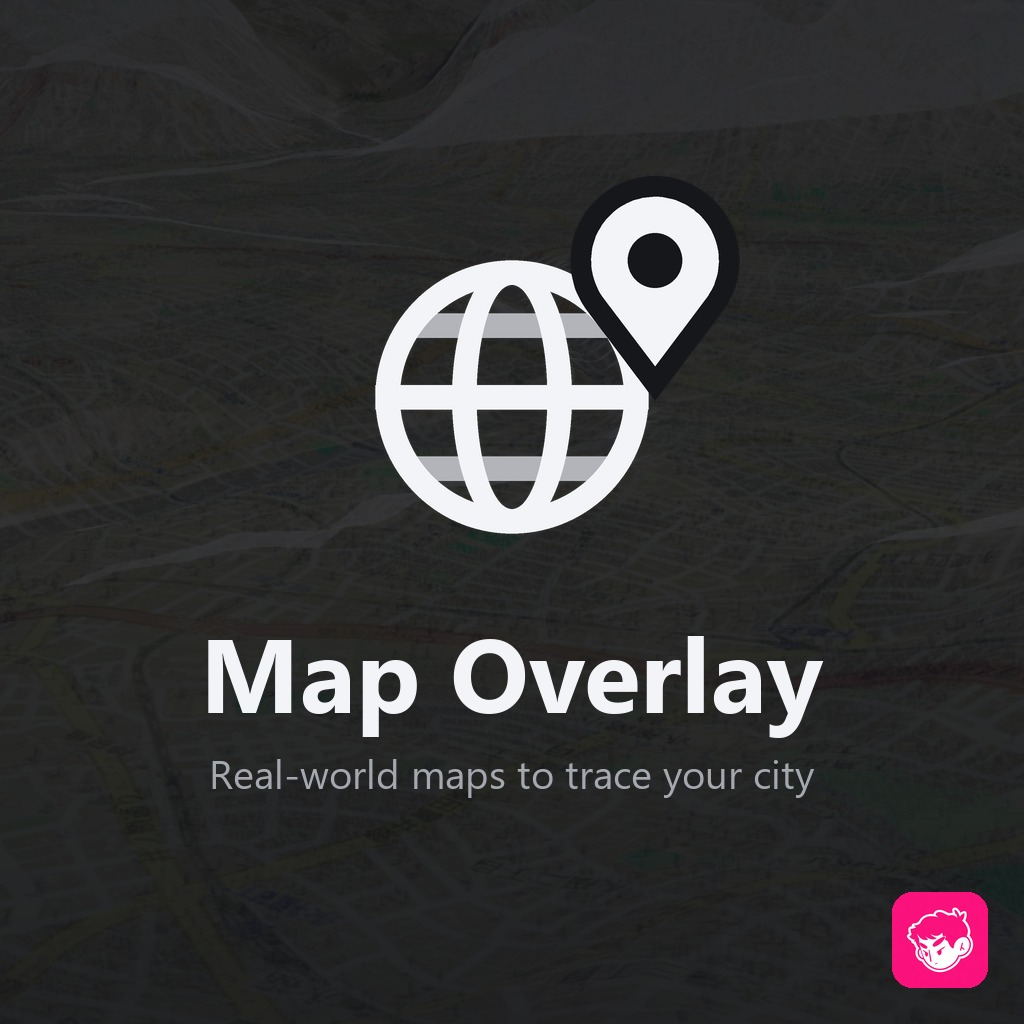
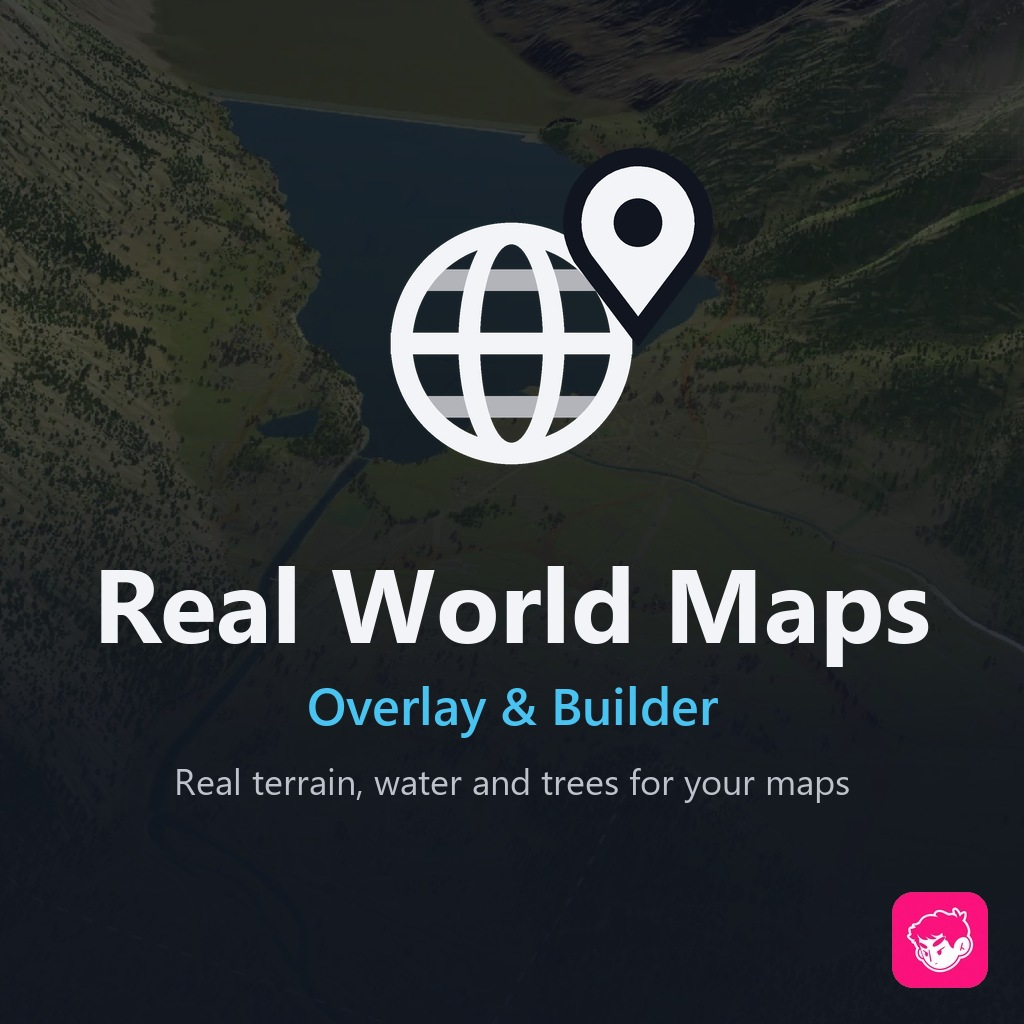
Real World Maps 0.3.0: new name, draggable panel, release assets
Map Overlay becomes Real World Maps. The panel can be dragged by its header.
Updates the publish configuration, thumbnail, gallery and README.

diff --git a/UI/src/kit/index.tsx b/UI/src/kit/index.tsx
@@ -1,6 +1,6 @@
 // A small UI kit for in-game mod panels: one look shared by every mod that copies this
 // folder. Only plain React and the kit's own styles; colours live in _tokens.scss.
-import { CSSProperties, ReactNode, useEffect, useRef, useState } from "react";
+import React, { CSSProperties, ReactNode, useEffect, useRef, useState } from "react";
 import s from "./kit.module.scss";
 
 export const cx = (...names: (string | false | null | undefined)[]) => names.filter(Boolean).join(" ");
@@ -17,36 +17,77 @@ interface ModPanelProps {
   closeLabel?: string;
   style?: CSSProperties;
   bodyMaxHeight?: string;
+  dragKey?: string; // panels with the same key share where they were dragged to
   children: ReactNode;
 }
 
-export const ModPanel = ({ icon, title, subtitle, actions, footer, onClose, style, bodyMaxHeight, children }: ModPanelProps) => (
-  <div className={s.panel} style={style}>
-    <div className={s.header}>
-      <div className={s.badge}>
-        <img className={s.badgeIcon} src={icon} />
+// Where panels were dragged to, kept while they are closed (for this game session).
+const panelOffsets = new Map<string, { x: number; y: number }>();
+const kKeepOnScreen = 44; // px of the panel's top that stay visible at the bottom of the screen
+
+export const ModPanel = ({ icon, title, subtitle, actions, footer, onClose, style, bodyMaxHeight, dragKey, children }: ModPanelProps) => {
+  const key = dragKey ?? title;
+  const [offset, setOffset] = useState(panelOffsets.get(key) ?? { x: 0, y: 0 });
+  const panelRef = useRef<HTMLDivElement>(null);
+  const stopDrag = useRef<(() => void) | null>(null);
+
+  useEffect(() => () => stopDrag.current?.(), []);
+
+  // Dragged by the icon and title; the header's buttons keep working as usual.
+  const startDrag = (e: React.MouseEvent) => {
+    if (e.button !== 0 || !panelRef.current) return;
+    e.preventDefault();
+    const rect = panelRef.current.getBoundingClientRect();
+    const startX = e.clientX, startY = e.clientY, from = offset;
+    const clamp = (v: number, low: number, high: number) => Math.max(low, Math.min(high, v));
+    const move = (ev: MouseEvent) => {
+      const next = {
+        x: from.x + clamp(ev.clientX - startX, -rect.left, window.innerWidth - rect.right),
+        y: from.y + clamp(ev.clientY - startY, -rect.top, window.innerHeight - rect.top - kKeepOnScreen),
+      };
+      panelOffsets.set(key, next);
+      setOffset(next);
+    };
+    const up = () => stopDrag.current?.();
+    stopDrag.current = () => {
+      document.removeEventListener("mousemove", move);
+      document.removeEventListener("mouseup", up);
+      stopDrag.current = null;
+    };
+    document.addEventListener("mousemove", move);
+    document.addEventListener("mouseup", up);
+  };
+
+  return (
+    <div ref={panelRef} className={s.panel} style={{ ...style, transform: `translate(${offset.x}px, ${offset.y}px)` }}>
+      <div className={s.header}>
+        <div className={s.dragHandle} onMouseDown={startDrag}>
+          <div className={s.badge}>
+            <img className={s.badgeIcon} src={icon} />
+          </div>
+          <div className={s.heading}>
+            <div className={s.title}>{title}</div>
+            {subtitle && <div className={s.subtitle}>{subtitle}</div>}
+          </div>
+        </div>
+        <div className={s.headerActions}>
+          {actions}
+          {/* Drawn with CSS: the game's UI font has no ✕ glyph. */}
+          <button className={s.iconButton} onClick={onClose}>
+            <span className={s.closeIcon}>
+              <span className={s.closeBar} />
+              <span className={cx(s.closeBar, s.closeBarCross)} />
+            </span>
+          </button>
+        </div>
       </div>
-      <div className={s.heading}>
-        <div className={s.title}>{title}</div>
-        {subtitle && <div className={s.subtitle}>{subtitle}</div>}
+      <div className={s.body} style={bodyMaxHeight ? { maxHeight: bodyMaxHeight } : undefined}>
+        {children}
       </div>
-      <div className={s.headerActions}>
-        {actions}
-        {/* Drawn with CSS: the game's UI font has no ✕ glyph. */}
-        <button className={s.iconButton} onClick={onClose}>
-          <span className={s.closeIcon}>
-            <span className={s.closeBar} />
-            <span className={cx(s.closeBar, s.closeBarCross)} />
-          </span>
-        </button>
-      </div>
+      {footer && <div className={s.footer}>{footer}</div>}
     </div>
-    <div className={s.body} style={bodyMaxHeight ? { maxHeight: bodyMaxHeight } : undefined}>
-      {children}
-    </div>
-    {footer && <div className={s.footer}>{footer}</div>}
-  </div>
-);
+  );
+};
 
 // ---- Tabs ---------------------------------------------------------------------------
 

diff --git a/UI/src/mods/panel.tsx b/UI/src/mods/panel.tsx
@@ -43,7 +43,7 @@ export const ToolbarButton = () => {
     <FloatingButton
       src={icon}
       selected={open}
-      tooltipLabel={text("Title", "Map Overlay")}
+      tooltipLabel={text("Title", "Real World Maps")}
       onSelect={() => b.panelStore.set(!open)}
     />
   );
@@ -801,10 +801,11 @@ export const OverlayPanel = () => {
     return (
       <ModPanel
         icon={icon}
-        title={text("Title", "Map Overlay")}
+        title={text("Title", "Real World Maps")}
         subtitle={text("ProjectsSubtitle", "Real maps for your cities")}
         onClose={() => b.panelStore.set(false)}
         style={style}
+        dragKey={inEditor ? "editor" : "game"}
         bodyMaxHeight="700rem"
       >
         <ProjectHome busy={busy} />
@@ -815,7 +816,7 @@ export const OverlayPanel = () => {
   return (
     <ModPanel
       icon={icon}
-      title={text("Title", "Map Overlay")}
+      title={text("Title", "Real World Maps")}
       subtitle={`${lat.toFixed(5)}, ${lon.toFixed(5)}`}
       actions={
         <Tooltip tooltip={text("Visible", "Show map")}>
@@ -827,6 +828,7 @@ export const OverlayPanel = () => {
       footer={<Status />}
       onClose={() => b.panelStore.set(false)}
       style={style}
+      dragKey={inEditor ? "editor" : "game"}
       bodyMaxHeight="700rem"
     >
       <ProjectBar busy={busy} />
@@ -865,7 +867,7 @@ export const withEditorButton =
     return (
       <div className={cx(className, styles.toolbarHost)}>
         <Toolbar {...props} />
-        <Tooltip tooltip={text("Title", "Map Overlay")}>
+        <Tooltip tooltip={text("Title", "Real World Maps")}>
           <button className={cx(theme.button, styles.toolbarButton, open && "selected")} onClick={() => b.panelStore.set(!open)}>
             <img className={styles.toolbarIcon} src={icon} />
           </button>

diff --git a/UI/src/mods/panel.module.scss b/UI/src/mods/panel.module.scss
@@ -1,4 +1,4 @@
-// Map Overlay-specific pieces; shared controls and tokens live in ../kit.
+// Real World Maps-specific pieces; shared controls and tokens live in ../kit.
 @use "../kit/tokens" as *;
 
 .headerSwitch {

diff --git a/UI/src/kit/kit.module.scss b/UI/src/kit/kit.module.scss
@@ -27,6 +27,12 @@
   background-color: $header-bg;
 }
 
+.dragHandle {
+  @include row;
+  flex: 1;
+  cursor: move;
+}
+
 .badge {
   @include row;
   justify-content: center;

diff --git a/MapOverlay/Locale.cs b/MapOverlay/Locale.cs
@@ -21,7 +21,7 @@ namespace MapOverlay
             var s = m_Setting;
             return new Dictionary<string, string>
             {
-                { s.GetSettingsLocaleID(), "Map Overlay" },
+                { s.GetSettingsLocaleID(), "Real World Maps" },
                 { s.GetOptionTabLocaleID(Setting.kSection), "Main" },
 
                 { s.GetOptionGroupLocaleID(Setting.kViewGroup), "View" },
@@ -58,7 +58,7 @@ namespace MapOverlay
                 { s.GetOptionDescLocaleID(nameof(Setting.ClearCache)), "Deletes downloaded tiles in ModsData\\MapOverlay\\cache. They download again when shown." },
                 { s.GetOptionWarningLocaleID(nameof(Setting.ClearCache)), "Delete all downloaded tiles?" },
 
-                { kUIPrefix + "Title", "Map Overlay" },
+                { kUIPrefix + "Title", "Real World Maps" },
                 { kUIPrefix + "Visible", "Show map" },
                 { kUIPrefix + "Opacity", "Opacity" },
                 { kUIPrefix + "OnTop", "On top of everything" },

diff --git a/MapOverlay/Mod.cs b/MapOverlay/Mod.cs
@@ -12,7 +12,7 @@ namespace MapOverlay
 {
     public class Mod : IMod
     {
-        public const string kVersion = "0.2.0";
+        public const string kVersion = "0.3.0";
 
         public static ILog log = LogManager.GetLogger(nameof(MapOverlay)).SetShowsErrorsInUI(false);
 

diff --git a/README.md b/README.md
@@ -1,10 +1,21 @@
-# Map Overlay
+# Real World Maps: Overlay & Builder
 
-Mod de código para Cities: Skylines II (interfaz en inglés). Muestra OpenStreetMap sobre el terreno a escala real (1 m del mundo real = 1 unidad del juego, ajustable), como papel cebolla, para calcar trazados de ciudades reales. No afecta a la partida guardada.
+Antes llamado Map Overlay; el nombre interno (`MapOverlay`: DLL, carpeta, ajustes y log) no cambia, para conservar los datos de quienes ya lo usan.
 
-## Uso (0.2.0)
+Mod de código para Cities: Skylines II (interfaz en inglés). Genera mapas desde lugares reales en el editor y muestra OpenStreetMap sobre el terreno a escala real (1 m del mundo real = 1 unidad del juego, ajustable), como papel cebolla, para calcar trazados de ciudades reales. No afecta a la partida guardada.
 
-El botón del mod está en la barra superior izquierda de la partida. Abre un panel con:
+## Novedades de 0.3.0
+
+- **Proyectos**: uno por ciudad; se crean, cargan, guardan y eliminan. Guardan la posición y la vista del mapa, y se pueden bloquear para que el mapa no se mueva. Están en `ModsData\MapOverlay\projects`.
+- **Pestaña Terrain (solo en el editor)**: genera el área jugable y el mapa del mundo con elevación real, en el mismo encuadre que el Overlay, con suavizado, mar, lagos, ríos, canales y árboles. El agua se coloca al terminar de generar y las fuentes se crean solas. En partida la pestaña solo muestra un aviso.
+- **Agua**: los ríos se dibujan como una red conectada desde su desembocadura, con fondo plano, orillas sobre el agua y una profundidad que crece con el ancho. El log compara el agua real con la planificada a los 60 y 180 s.
+- **Panel**: pestañas Overlay y Terrain, estilo del juego y ventana que se arrastra desde el encabezado. En el editor, el botón está en la fila de herramientas de abajo.
+
+Fuentes de datos: elevación de Terrain Tiles en AWS (con la atribución que exige, en la descripción del mod), agua de OpenStreetMap con teselas vectoriales de OpenFreeMap y OpenMapTiles, y árboles de ESA WorldCover 2021 (CC BY 4.0).
+
+## Uso del Overlay
+
+El botón del mod está en la barra superior izquierda de la partida. Con un proyecto abierto, la pestaña Overlay tiene:
 
 - **Mostrar mapa** y **Opacidad**.
 - **Búsqueda**: sugerencias mientras escribes (Photon); Enter busca con Nominatim y, si no encuentra nada, con Photon. También acepta coordenadas (`19.4326, -99.1332`) o un enlace de Google Maps u OpenStreetMap. El lugar elegido aparece donde mira la cámara.
